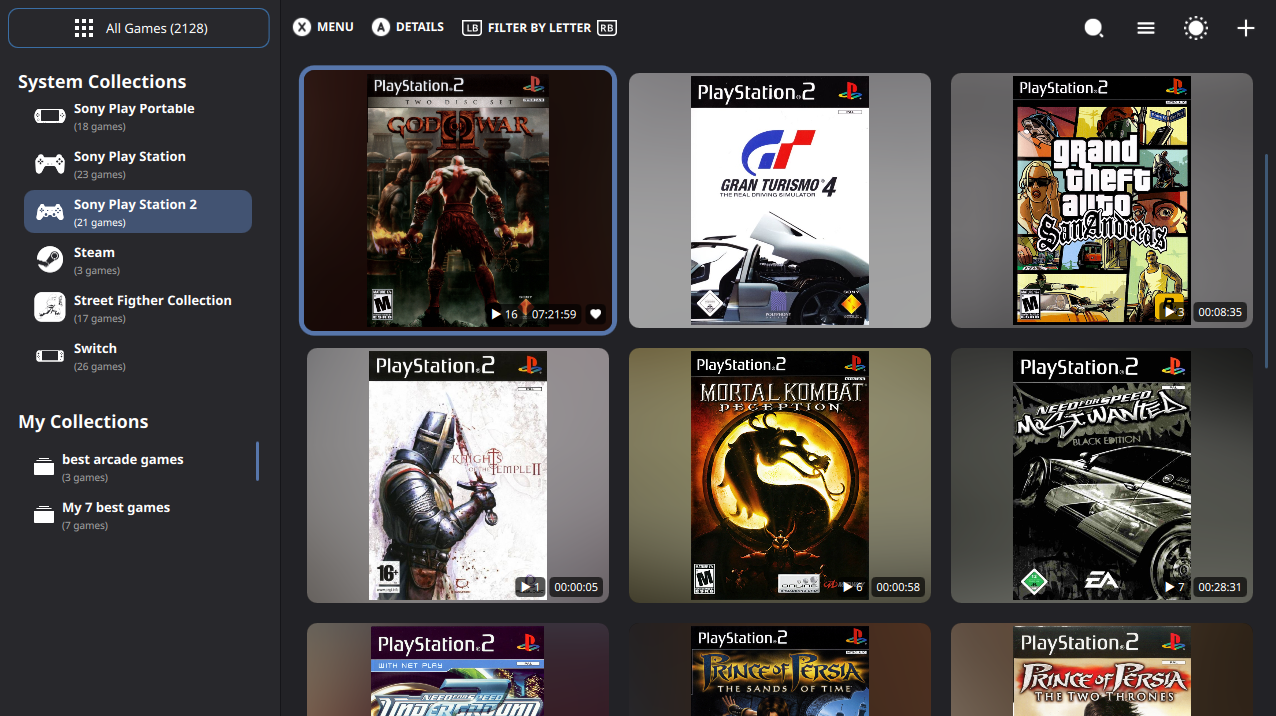
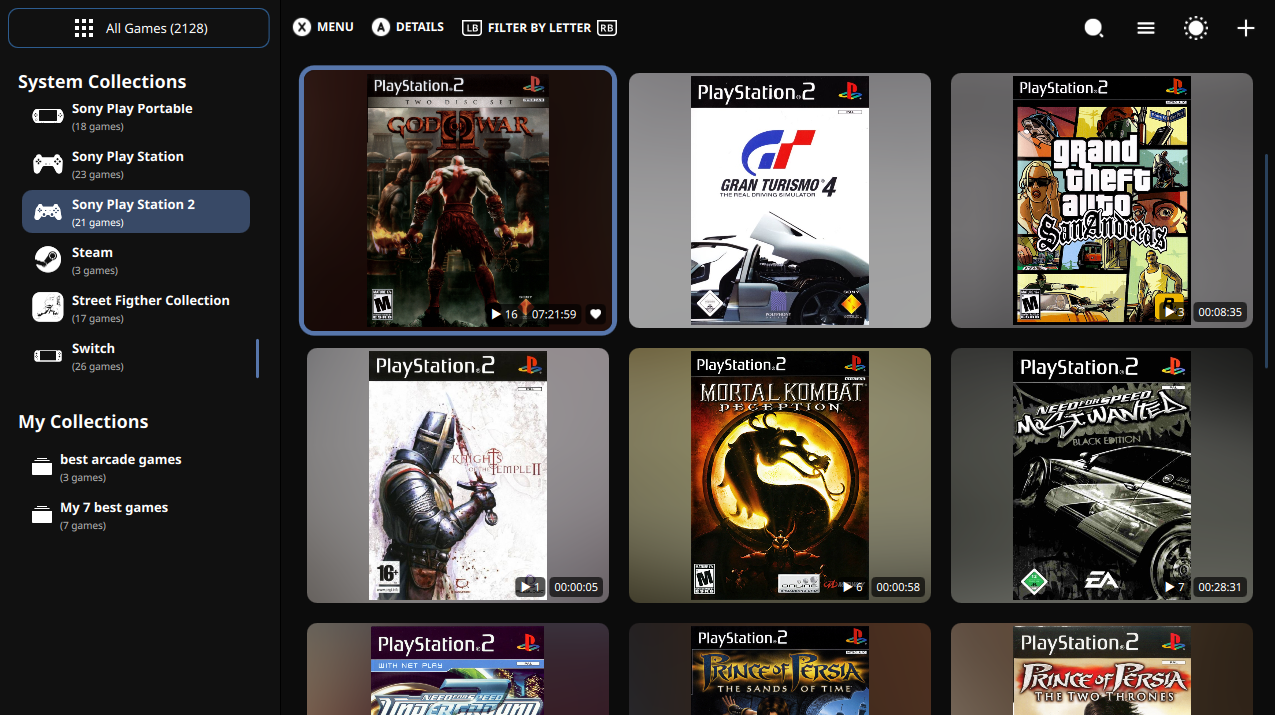
small details

diff --git a/theme.qml b/theme.qml
@@ -46,29 +46,29 @@ FocusScope {
     property var colors: isDarkTheme ? darkColors : lightColors
 
     property var darkColors: ({
-        "background": "#151519",
-        "panel": "#28282c",
-        "rightpanel": "#222226",
-        "menucolor": "#090909",
-        "panelBorder": "#28282c",
-        "primary": "#3a6ea5",
-        "primaryHover": "#5a8ec5",
+        "background": "#000000",
+        "panel": "#111111",
+        "rightpanel": "#0c0c0c",
+        "menucolor": "#050505",
+        "panelBorder": "#111111",
+        "primary": "#2d5c8f",
+        "primaryHover": "#4677ad",
         "text": "#ffffff",
-        "textSecondary": "#a0a0a0",
-        "textTertiary": "#707070",
-        "success": "#4CAF50",
+        "textSecondary": "#b0b0b0",
+        "textTertiary": "#7a7a7a",
+        "success": "#43A047",
         "successDark": "#2E7D32",
         "successLight": "#66BB6A",
-        "error": "#f44336",
-        "errorDark": "#c62828",
-        "errorLight": "#ef5350",
-        "inputBg": "#0f0f0f",
-        "inputBorder": "#303030",
-        "separator": "#252525",
-        "tileBg": "#1a1a1a",
-        "tileBorder": "#252525",
-        "tileImageBg": "#0f0f0f",
-        "overlay": "#DD000000"
+        "error": "#E53935",
+        "errorDark": "#C62828",
+        "errorLight": "#EF5350",
+        "inputBg": "#050505",
+        "inputBorder": "#1f1f1f",
+        "separator": "#181818",
+        "tileBg": "#101010",
+        "tileBorder": "#1c1c1c",
+        "tileImageBg": "#080808",
+        "overlay": "#E0000000"
     })
 
     property var lightColors: ({

diff --git a/SearchBar.qml b/SearchBar.qml
@@ -9,7 +9,7 @@ Item {
 
     property bool isExpanded: false
     property int collapsedWidth: vpx(52)
-    property int expandedWidth: vpx(490)
+    property int expandedWidth: vpx(450)
 
     signal searchChanged(string text)
     signal moveToSortMenu()
@@ -58,7 +58,7 @@ Item {
 
             Text {
                 anchors.fill: parent
-                text: "Search here..."
+                text: "Title, Publisher, Developer, Genre..."
                 color: searchColors.textTertiary || "#707070"
                 font.pixelSize: vpx(15)
                 verticalAlignment: Text.AlignVCenter
